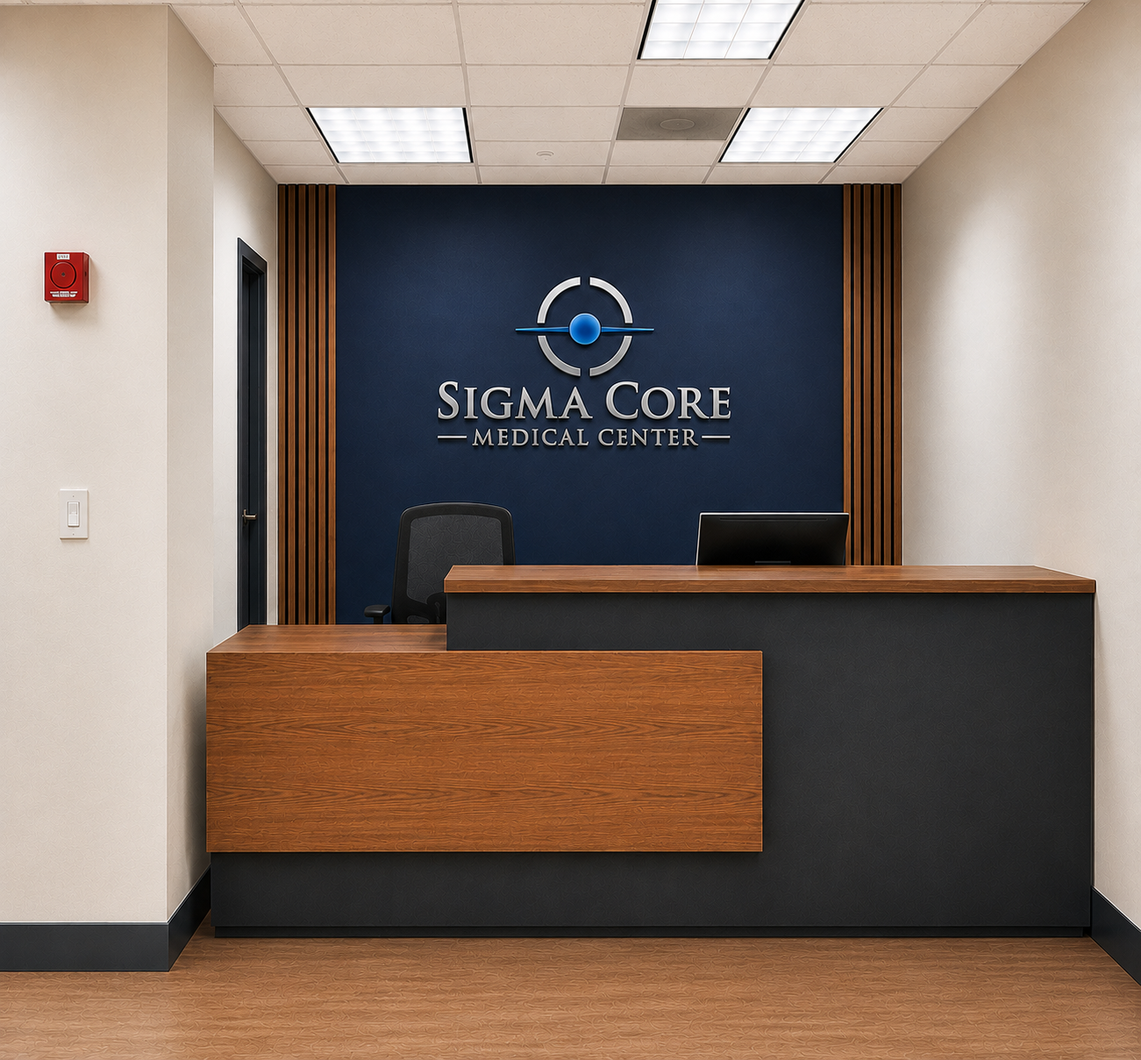
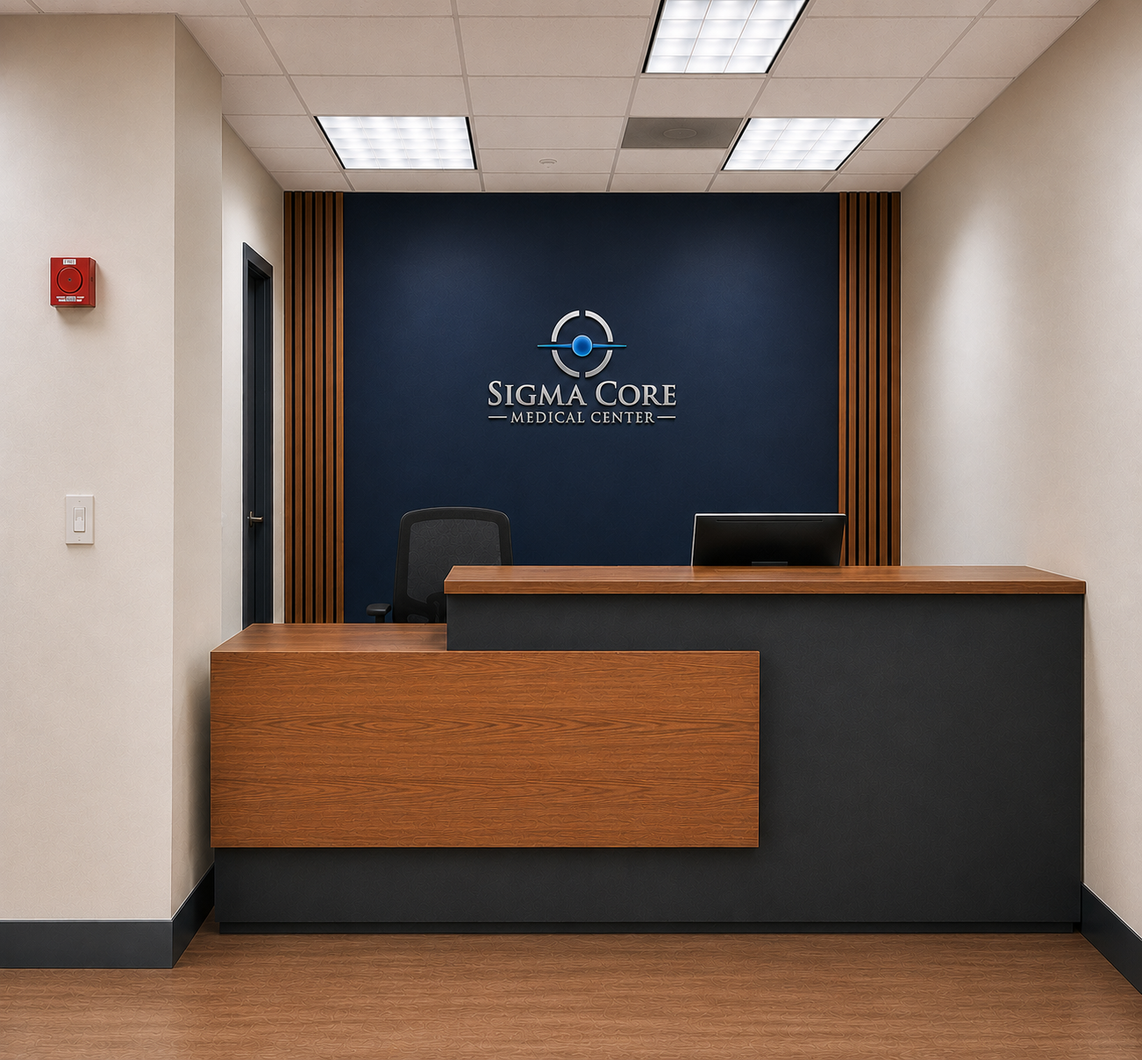
fix: repair about and contact photo ownership

diff --git a/app/(batch-three)/batch-three.css b/app/(batch-three)/batch-three.css
@@ -45,8 +45,8 @@
 .b3-guide-privacy { padding:80px 0; }.b3-guide-privacy .b3-photo { min-height:380px; }
 .b3-book-hero { padding:80px 0 50px; }.b3-book-hero .b3-split { align-items:stretch; }.b3-book-steps { padding:0; margin:32px 0; list-style:none; counter-reset:book; }.b3-book-steps li { counter-increment:book; padding:15px 20px; margin-top:8px; max-width:380px; background:#f7f6f3; color:#101e33; font-weight:600; }.b3-book-steps li:nth-child(2) { background:#20272e; color:#fff; margin-left:30px; }.b3-book-steps li::before { content:counter(book,decimal-leading-zero); color:#0877be; margin-right:14px; }.b3-book-hero-media { min-height:190px; max-width:500px; }.b3-calendar-aperture { min-height:560px; display:flex; flex-direction:column; gap:18px; align-items:center; justify-content:center; text-align:center; padding:38px; border:1px solid #c7cbd0; clip-path:polygon(12% 0,100% 0,100% 86%,88% 100%,0 100%,0 14%); }.b3-calendar-aperture strong { font-size:1.5rem; text-transform:uppercase; letter-spacing:.12em; }.b3-calendar-aperture span { font-size:1.05rem; }
 .b3-book-calendar { padding:90px 0; }.b3-book-calendar .b3-split { margin-top:32px; }.b3-calendar-copy { align-self:start; }.b3-calendar-right { position:relative; }.b3-calendar-reserved { position:relative; z-index:1; display:grid; justify-items:center; text-align:center; align-content:center; min-height:350px; padding:50px; background:#f7f6f3; color:#101e33; clip-path:polygon(5% 0,100% 0,100% 95%,95% 100%,0 100%,0 5%); }.b3-calendar-reserved strong { margin-top:14px; font-size:1.35rem; text-transform:uppercase; }.b3-calendar-reserved p { font-size:1rem; }.b3-calendar-photo { min-height:160px; margin-top:-35px; }.b3-book-privacy { padding:90px 0; }.b3-book-privacy .b3-reserved { min-height:330px; }
-.b3-contact-hero { padding-bottom:50px; }.b3-contact-hero .b3-photo { height:530px; }.b3-contact-details { padding:90px 0; }.b3-location-card { display:flex; gap:20px; background:#f7f6f3; color:#101e33; padding:30px; margin-top:38px; }.b3-location-card strong,.b3-location-card span { display:block; }.b3-location-card span { margin-top:5px; font-size:1rem; }.b3-contact-facility { padding:90px 0 0; }.b3-contact-facility>div>p { max-width:65ch; }.b3-facility-wide { min-height:470px; margin-top:30px; }.b3-facility-label { position:relative; display:flex; gap:25px; align-items:center; background:#101e33; color:#fff; padding:20px 30px; }.b3-facility-label span { flex:1; font-size:1rem; }.b3-facility-label a { display:flex; align-items:center; gap:8px; color:#b1dfff; }.b3-contact-booking { padding:110px 0; }.b3-contact-booking .b3-photo { min-height:420px; }
-@media(max-width:760px) { .b3-shell { width:min(100% - 36px, 600px); }.b3-split,.b3-gallery-top { grid-template-columns:1fr; gap:30px; }.b3 h1 { font-size:clamp(2.4rem,10vw,4rem); }.b3 h2 { font-size:clamp(2.2rem,9vw,3.6rem); }.b3-bracket { padding-left:18px; }.b3-about-hero,.b3-contact-hero,.b3-guide-hero,.b3-book-hero { padding-top:46px; }.b3-hero-media,.b3-contact-hero .b3-photo { height:280px; }.b3-purpose-top .b3-photo,.b3-about-team .b3-photo { min-height:265px; }.b3-mission .b3-shell { grid-template-columns:1fr; gap:12px; }.b3-principle-rail { grid-template-columns:1fr 1fr; padding-block:20px; }.b3-gallery-top .b3-photo { min-height:260px; }.b3-gallery-panorama { min-height:130px; }.b3-about-gallery,.b3-about-principles,.b3-about-team,.b3-about-booking,.b3-guide-summary,.b3-guide-availability,.b3-guide-privacy,.b3-book-calendar,.b3-book-privacy,.b3-contact-details,.b3-contact-facility,.b3-contact-booking { padding-block:64px; }.b3-book-hero-media { min-height:160px; }.b3-calendar-aperture { min-height:310px; }.b3-facility-wide { min-height:250px; }.b3-facility-label { flex-wrap:wrap; }.b3-facility-label span { flex:1 1 100%; }.b3-availability-foot { align-items:start; flex-direction:column; }.b3-status { padding:18px; }.b3-guide-rail .b3-shell { padding:14px 0; }.b3-guide-rail span { display:none; } }
+.b3-contact-hero { padding-bottom:50px; }.b3-contact-hero .b3-photo { height:530px; }.b3-contact-details { padding:90px 0; }.b3-location-card { display:flex; gap:20px; background:#f7f6f3; color:#101e33; padding:30px; margin-top:38px; }.b3-location-card strong,.b3-location-card span { display:block; }.b3-location-card span { margin-top:5px; font-size:1rem; }.b3-contact-booking { padding:110px 0; }.b3-contact-booking .b3-photo { min-height:420px; }
+@media(max-width:760px) { .b3-shell { width:min(100% - 36px, 600px); }.b3-split,.b3-gallery-top { grid-template-columns:1fr; gap:30px; }.b3 h1 { font-size:clamp(2.4rem,10vw,4rem); }.b3 h2 { font-size:clamp(2.2rem,9vw,3.6rem); }.b3-bracket { padding-left:18px; }.b3-about-hero,.b3-contact-hero,.b3-guide-hero,.b3-book-hero { padding-top:46px; }.b3-hero-media,.b3-contact-hero .b3-photo { height:280px; }.b3-purpose-top .b3-photo,.b3-about-team .b3-photo { min-height:265px; }.b3-mission .b3-shell { grid-template-columns:1fr; gap:12px; }.b3-principle-rail { grid-template-columns:1fr 1fr; padding-block:20px; }.b3-gallery-top .b3-photo { min-height:260px; }.b3-gallery-panorama { min-height:130px; }.b3-about-gallery,.b3-about-principles,.b3-about-team,.b3-about-booking,.b3-guide-summary,.b3-guide-availability,.b3-guide-privacy,.b3-book-calendar,.b3-book-privacy,.b3-contact-details,.b3-contact-booking { padding-block:64px; }.b3-book-hero-media { min-height:160px; }.b3-calendar-aperture { min-height:310px; }.b3-availability-foot { align-items:start; flex-direction:column; }.b3-status { padding:18px; }.b3-guide-rail .b3-shell { padding:14px 0; }.b3-guide-rail span { display:none; } }
 @media(prefers-reduced-motion:reduce) { .b3-action { transition:none; } }
 
 @media (min-width: 761px) {
@@ -56,15 +56,108 @@
   .b3-gallery-top { grid-template-columns: 35% 65%; }
   .b3-gallery-top .b3-photo { min-height: 540px; }
   .b3-gallery-panorama { min-height: 300px; }
-  .b3-contact-facility > .b3-shell { width: min(100% - 48px, 1480px); }
-  .b3-facility-wide { min-height: 565px; }
 }
 @media (max-width: 760px) {
   .b3-purpose-top .b3-photo { min-height: 340px; }
   .b3-gallery-top .b3-photo { min-height: 335px; }
   .b3-gallery-panorama { min-height: 190px; }
-  .b3-facility-wide { min-height: 300px; }
 }
 
 .b3-guide-hero .b3-guide-rail { padding-bottom: 24px; }
-.b3-contact-facility .b3-facility-label { margin-bottom: 36px; }
+
+/* Keep the alternate reception view tall enough to show its desk and complete mark. */
+.b3-contact-details .b3-stacked-media .b3-photo:first-child { min-height:440px; }
+.b3-contact-details .b3-stacked-media .b3-photo:last-child { min-height:220px; }
+
+/* Contact facility frame: the real room, live location strip and measured rail are separate layers. */
+.b3-contact-facility { padding-block:90px 96px; }
+.b3-contact-facility > .b3-shell { width:min(100% - 48px, 1440px); }
+.b3-contact-facility > .b3-shell > p { max-width:65ch; }
+.b3-facility-stage { position:relative; margin-top:32px; padding-inline:96px 42px; }
+.b3-facility-wide {
+  height:clamp(500px, 46vw, 660px);
+  min-height:0;
+  clip-path:polygon(2% 0, 100% 0, 100% 100%, 0 100%, 0 26%);
+}
+.b3-facility-wide img { object-position:center; }
+.b3-facility-rail {
+  position:absolute;
+  z-index:1;
+  inset:30% auto 0 0;
+  width:132px;
+  background:#0877be;
+  clip-path:polygon(62% 0, 78% 0, 25% 100%, 0 100%);
+  pointer-events:none;
+}
+.b3-facility-bracket {
+  position:absolute;
+  inset:-172px 0 32px auto;
+  width:90px;
+  border-right:12px solid #aab7c1;
+  pointer-events:none;
+}
+.b3-facility-bracket::before,.b3-facility-bracket::after {
+  content:"";
+  position:absolute;
+  right:-12px;
+  width:90px;
+  border-top:12px solid #aab7c1;
+}
+.b3-facility-bracket::before { top:0; }
+.b3-facility-bracket::after { bottom:0; }
+.b3-facility-label {
+  position:relative;
+  z-index:2;
+  display:flex;
+  align-items:center;
+  justify-content:space-between;
+  gap:24px;
+  min-height:108px;
+  padding:18px 24px 18px 112px;
+  background:#101e33;
+  color:#f7f6f3;
+}
+.b3-facility-label::before {
+  content:"";
+  position:absolute;
+  left:36px;
+  top:22px;
+  bottom:22px;
+  width:44px;
+  border:7px solid #f7f6f3;
+  border-right:0;
+}
+.b3-facility-label strong,.b3-facility-label span { display:block; }
+.b3-facility-label strong { font-size:1.45rem; line-height:1.2; }
+.b3-facility-label span { margin-top:5px; font-size:1rem; }
+.b3-facility-label a {
+  display:inline-flex;
+  align-items:center;
+  justify-content:space-between;
+  gap:24px;
+  min-height:64px;
+  padding:12px 24px;
+  background:#0877be;
+  color:#f7f6f3;
+  clip-path:polygon(16% 0, 100% 0, 100% 100%, 0 100%);
+  transition:background-color .2s ease;
+}
+.b3-facility-label a:hover { background:#055b96; text-decoration:none !important; }
+.b3-facility-label a:focus-visible { clip-path:none; }
+@media(max-width:760px) {
+  .b3-contact-details .b3-stacked-media .b3-photo:first-child { min-height:300px; }
+  .b3-contact-details .b3-stacked-media .b3-photo:last-child { min-height:170px; }
+  .b3-contact-facility { padding-block:64px; }
+  .b3-contact-facility > .b3-shell { width:min(100% - 36px, 600px); }
+  .b3-facility-stage { margin-top:28px; padding-inline:16px 0; }
+  .b3-facility-wide { height:clamp(290px, 84vw, 390px); }
+  .b3-facility-rail { width:34px; }
+  .b3-facility-bracket { display:none; }
+  .b3-facility-label { display:grid; gap:14px; padding:22px 24px; }
+  .b3-facility-label::before { display:none; }
+  .b3-facility-label strong { font-size:1.15rem; }
+  .b3-facility-label a { justify-self:start; min-height:48px; padding:10px 18px; }
+}
+@media(prefers-reduced-motion:reduce) {
+  .b3-facility-label a { transition:none; }
+}

diff --git a/public/design-review/contact/index.html b/public/design-review/contact/index.html
@@ -155,13 +155,14 @@ figcaption{font-size:12px;color:#999;margin-top:4px}
 </div></div>
 <div class='card' id='02-verified-location-details-r7'>
 <b>02-verified-location-details-r7</b><span class='chip extract'>extract</span>
-<div class='muted'>real reception — independent photographic slot</div>
+<div class='muted'>second supplied reception view — same desk, separate slot</div>
 <div class='muted'>Use the owned image inside a sized media slot; CSS clip-path may restore the reference diagonal. Keep overlaid text and calls to action outside the raster.</div>
-<div class='muted'>presentation: {&quot;alpha_required&quot;: false, &quot;crop_contract&quot;: &quot;Keep the photographed subject and identifying room features legible; maintain source-specific composition at desktop and mobile.&quot;, &quot;intended_background&quot;: &quot;#101E33&quot;, &quot;minimum_visible_fraction&quot;: &quot;At least 75% of the source-visible photographic subject in the approved live slot; do not invent any occluded anatomy or room detail.&quot;, &quot;mode&quot;: &quot;framed-panel&quot;, &quot;source_box&quot;: [1198, 104, 1505, 588], &quot;source_provenance&quot;: &quot;/var/lib/megaclaw/workspace/website-lp-build-research-data/b380819e-88b6-48bd-8f1e-bfe6a580d72a/sources/drive/reception-1.png&quot;}</div>
+<div class='muted'>presentation: {&quot;alpha_required&quot;: false, &quot;crop_contract&quot;: &quot;Keep the photographed subject and identifying room features legible; maintain source-specific composition at desktop and mobile.&quot;, &quot;intended_background&quot;: &quot;#101E33&quot;, &quot;minimum_visible_fraction&quot;: &quot;At least 75% of the source-visible photographic subject in the approved live slot; do not invent any occluded anatomy or room detail.&quot;, &quot;mode&quot;: &quot;framed-panel&quot;, &quot;source_box&quot;: [1198, 104, 1505, 588], &quot;source_provenance&quot;: &quot;/var/lib/megaclaw/workspace/website-lp-build-research-data/b380819e-88b6-48bd-8f1e-bfe6a580d72a/sources/drive/reception-2.png&quot;}</div>
+<div class='muted'>Client source: reception-2.png. Same physical desk as the hero, photographed in a second supplied view; cross-route reuse awaits Art Director live review.</div>
 <div class='pair'>
 <figure><a href='crops/02-verified-location-details-context.png'><img src='crops/02-verified-location-details-r7-ref.png' alt=''></a><figcaption>design reference — 02-verified-location-details (click for full frame)</figcaption></figure>
-<figure><div class='asset-preview'><img src='../images/design/02-verified-location-details-01-real-reception.png' alt=''></div><figcaption>shipped asset on transparency checkerboard — <code>02-verified-location-details-01-real-reception.png</code> (replace in git)</figcaption></figure>
-<figure><div class='intended-preview' style='background:#101E33'><img src='../images/design/02-verified-location-details-01-real-reception.png' alt=''></div><figcaption>asset on intended background — #101E33</figcaption></figure>
+<figure><div class='asset-preview'><img src='../../images/design/contact/02-verified-location-details-01-real-reception.png' alt=''></div><figcaption>shipped asset on transparency checkerboard — <code>02-verified-location-details-01-real-reception.png</code> (replace in git)</figcaption></figure>
+<figure><div class='intended-preview' style='background:#101E33'><img src='../../images/design/contact/02-verified-location-details-01-real-reception.png' alt=''></div><figcaption>asset on intended background — #101E33</figcaption></figure>
 </div></div>
 <div class='card' id='02-verified-location-details-r8'>
 <b>02-verified-location-details-r8</b><span class='chip extract'>extract</span>
@@ -304,7 +305,7 @@ Segmenter found 6 candidate regions; these are not semantic assets.
 - CODE r4: Keep this verified location details panel in its own CSS grid track with a solid brand field, clipped polygon edge where visible, live heading/body text and one-pixel bracket pseudo-elements; do not bake source-frame words, actions, or privacy claims into an image. Approved typography_contract roles: h1 (display), body and utility; palette_contract tokens: ink, surface, action, electric, silver, charcoal and light.
 - CODE r5: Keep the verified location details horizontal rail live: use CSS grid or flex children, one-pixel keylines, polygon-corner pseudo-elements and role-specific inline SVG marks; set the actual copy and navigation targets from the approved section manifest. Approved typography_contract roles: h1 (display), body and utility; palette_contract tokens: ink, surface, action, electric, silver, charcoal and light.
 - CODE r6: Keep the verified location details horizontal rail live: use CSS grid or flex children, one-pixel keylines, polygon-corner pseudo-elements and role-specific inline SVG marks; set the actual copy and navigation targets from the approved section manifest. Approved typography_contract roles: h1 (display), body and utility; palette_contract tokens: ink, surface, action, electric, silver, charcoal and light.
-- EXTRACT r7: real-reception; 02-verified-location-details-01-real-reception.png; copy verified client image reception-1.png. CSS sizes the slot, not the file; keep its remaining annotations live.
+- EXTRACT r7: real-reception; 02-verified-location-details-01-real-reception.png; copy verified client image reception-2.png (second view of the same desk). CSS sizes the slot, not the file; keep its remaining annotations live.
 - EXTRACT r8: clinic-lounge; 02-verified-location-details-02-clinic-lounge.png; crop approved frame, preserve photographed details; no generic substitute. CSS sizes the slot, not the file; keep its remaining annotations live.
 
 ## 03-facility-image

diff --git a/public/design-review/about/index.html b/public/design-review/about/index.html
@@ -189,13 +189,14 @@ figcaption{font-size:12px;color:#999;margin-top:4px}
 </div></div>
 <div class='card' id='03-facility-gallery-r5'>
 <b>03-facility-gallery-r5</b><span class='chip extract'>extract</span>
-<div class='muted'>real reception — independent photographic slot</div>
+<div class='muted'>second supplied reception view — same desk, separate slot</div>
 <div class='muted'>Use the owned image inside a sized media slot; CSS clip-path may restore the reference diagonal. Keep overlaid text and calls to action outside the raster.</div>
-<div class='muted'>presentation: {&quot;alpha_required&quot;: false, &quot;crop_contract&quot;: &quot;Keep the photographed subject and identifying room features legible; maintain source-specific composition at desktop and mobile.&quot;, &quot;intended_background&quot;: &quot;#101E33&quot;, &quot;minimum_visible_fraction&quot;: &quot;At least 75% of the source-visible photographic subject in the approved live slot; do not invent any occluded anatomy or room detail.&quot;, &quot;mode&quot;: &quot;framed-panel&quot;, &quot;source_box&quot;: [814, 69, 1382, 562], &quot;source_provenance&quot;: &quot;/var/lib/megaclaw/workspace/website-lp-build-research-data/b380819e-88b6-48bd-8f1e-bfe6a580d72a/sources/drive/reception-1.png&quot;}</div>
+<div class='muted'>presentation: {&quot;alpha_required&quot;: false, &quot;crop_contract&quot;: &quot;Keep the photographed subject and identifying room features legible; maintain source-specific composition at desktop and mobile.&quot;, &quot;intended_background&quot;: &quot;#101E33&quot;, &quot;minimum_visible_fraction&quot;: &quot;At least 75% of the source-visible photographic subject in the approved live slot; do not invent any occluded anatomy or room detail.&quot;, &quot;mode&quot;: &quot;framed-panel&quot;, &quot;source_box&quot;: [814, 69, 1382, 562], &quot;source_provenance&quot;: &quot;/var/lib/megaclaw/workspace/website-lp-build-research-data/b380819e-88b6-48bd-8f1e-bfe6a580d72a/sources/drive/reception-2.png&quot;}</div>
+<div class='muted'>Client source: reception-2.png. Same physical desk as the hero, photographed in a second supplied view; cross-route reuse awaits Art Director live review.</div>
 <div class='pair'>
 <figure><a href='crops/03-facility-gallery-context.png'><img src='crops/03-facility-gallery-r5-ref.png' alt=''></a><figcaption>design reference — 03-facility-gallery (click for full frame)</figcaption></figure>
-<figure><div class='asset-preview'><img src='../images/design/03-facility-gallery-01-real-reception.png' alt=''></div><figcaption>shipped asset on transparency checkerboard — <code>03-facility-gallery-01-real-reception.png</code> (replace in git)</figcaption></figure>
-<figure><div class='intended-preview' style='background:#101E33'><img src='../images/design/03-facility-gallery-01-real-reception.png' alt=''></div><figcaption>asset on intended background — #101E33</figcaption></figure>
+<figure><div class='asset-preview'><img src='../../images/design/about/03-facility-gallery-01-real-reception.png' alt=''></div><figcaption>shipped asset on transparency checkerboard — <code>03-facility-gallery-01-real-reception.png</code> (replace in git)</figcaption></figure>
+<figure><div class='intended-preview' style='background:#101E33'><img src='../../images/design/about/03-facility-gallery-01-real-reception.png' alt=''></div><figcaption>asset on intended background — #101E33</figcaption></figure>
 </div></div>
 <div class='card' id='03-facility-gallery-r6'>
 <b>03-facility-gallery-r6</b><span class='chip extract'>extract</span>
@@ -470,7 +471,7 @@ Segmenter found 4 candidate regions; these are not semantic assets.
 - CODE r2: Recreate this facility gallery content group with live HTML typography and responsive CSS grid or flex rows; match the sampled navy/blue/mineral field, use squared panels and one-pixel bracket strokes, and use only short geometric inline SVG bar/icon accents. Preserve manifest copy and functional links. Approved typography_contract roles: h1 (display), body and utility; palette_contract tokens: ink, surface, action, electric, silver, charcoal and light.
 - CODE r3: Recreate this facility gallery content group with live HTML typography and responsive CSS grid or flex rows; match the sampled navy/blue/mineral field, use squared panels and one-pixel bracket strokes, and use only short geometric inline SVG bar/icon accents. Preserve manifest copy and functional links. Approved typography_contract roles: h1 (display), body and utility; palette_contract tokens: ink, surface, action, electric, silver, charcoal and light.
 - CODE r4: Keep the facility gallery horizontal rail live: use CSS grid or flex children, one-pixel keylines, polygon-corner pseudo-elements and role-specific inline SVG marks; set the actual copy and navigation targets from the approved section manifest. Approved typography_contract roles: h1 (display), body and utility; palette_contract tokens: ink, surface, action, electric, silver, charcoal and light.
-- EXTRACT r5: real-reception; 03-facility-gallery-01-real-reception.png; copy verified client image reception-1.png. CSS sizes the slot, not the file; keep its remaining annotations live.
+- EXTRACT r5: real-reception; 03-facility-gallery-01-real-reception.png; copy verified client image reception-2.png (second view of the same desk). CSS sizes the slot, not the file; keep its remaining annotations live.
 - EXTRACT r6: waiting-area; 03-facility-gallery-02-waiting-area.png; crop approved frame, preserve photographed details; no generic substitute. CSS sizes the slot, not the file; keep its remaining annotations live.
 
 ## 04-care-principles

diff --git a/src/components/batch-three/contact/details.tsx b/src/components/batch-three/contact/details.tsx
@@ -2,5 +2,5 @@ import Link from "next/link";
 import { ArrowRight, MapPin } from "lucide-react";
 import { DesignPhoto } from "../design-photo";
 export function ContactDetails(): React.ReactElement {
-  return <section id="verified-location-details" className="b3-section b3-blue b3-contact-details"><div className="b3-shell b3-split"><div><h2>Location details are being verified.</h2><p>We are confirming the address, phone, email, hours, directions, parking, and accessibility details before publishing them.</p><div className="b3-location-card" id="location-status"><MapPin size={36} aria-hidden /><div><strong>Richmond, Virginia area</strong><span>Exact location and contact information pending confirmation.</span></div></div><Link href="/services/neuropathy" className="b3-text-link">Explore neuropathy care <ArrowRight size={18} /></Link></div><div className="b3-stacked-media"><DesignPhoto slug="contact" file="02-verified-location-details-01-real-reception.png" className="b3-bevel" /><DesignPhoto slug="contact" file="02-verified-location-details-02-clinic-lounge.png" className="b3-bevel" /></div></div></section>;
+  return <section id="verified-location-details" className="b3-section b3-blue b3-contact-details"><div className="b3-shell b3-split"><div><h2>Location details are being verified.</h2><p>We are confirming the address, phone, email, hours, directions, parking, and accessibility details before publishing them.</p><div className="b3-location-card" id="location-status"><MapPin size={36} aria-hidden /><div><strong>Richmond, Virginia area</strong><span>Exact location and contact information pending confirmation.</span></div></div><Link href="/services/neuropathy" className="b3-text-link">Explore neuropathy care <ArrowRight size={18} /></Link></div><div className="b3-stacked-media"><DesignPhoto slug="contact" file="02-verified-location-details-01-real-reception.png" alt="Sigma Core reception desk with the clinic sign behind it" className="b3-bevel" /><DesignPhoto slug="contact" file="02-verified-location-details-02-clinic-lounge.png" className="b3-bevel" /></div></div></section>;
 }

diff --git a/src/components/batch-three/contact/facility.tsx b/src/components/batch-three/contact/facility.tsx
@@ -1,6 +1,26 @@
 import Link from "next/link";
 import { ArrowRight } from "lucide-react";
 import { DesignPhoto } from "../design-photo";
+
 export function ContactFacility(): React.ReactElement {
-  return <section id="facility-image" className="b3-section b3-paper b3-contact-facility"><div className="b3-shell"><h2>Facility Image</h2><p>A Sigma Core-branded interior shown in the approved design reference. This image does not establish the final address, entrance, or accessibility arrangements.</p><DesignPhoto slug="contact" file="03-facility-image-01-real-waiting-room.png" className="b3-bevel b3-facility-wide" /><div className="b3-facility-label" id="facility-context"><strong>Richmond, Virginia area</strong><span>Location details pending confirmation.</span><Link href="/about">About Sigma Core <ArrowRight size={17} /></Link></div></div></section>;
+  return (
+    <section id="facility-image" className="b3-section b3-paper b3-contact-facility">
+      <div className="b3-shell">
+        <h2>Facility Image</h2>
+        <p>A Sigma Core-branded interior shown in the approved design reference. This image does not establish the final address, entrance, or accessibility arrangements.</p>
+        <div className="b3-facility-stage">
+          <DesignPhoto slug="contact" file="03-facility-image-01-real-waiting-room.png" alt="Sigma Core waiting room with five chairs and the clinic sign" className="b3-facility-wide" />
+          <span className="b3-facility-rail" aria-hidden="true" />
+          <span className="b3-facility-bracket" aria-hidden="true" />
+          <div className="b3-facility-label" id="facility-context">
+            <div>
+              <strong>Richmond, Virginia area</strong>
+              <span>Location details pending confirmation.</span>
+            </div>
+            <Link href="/about">About Sigma Core <ArrowRight size={17} /></Link>
+          </div>
+        </div>
+      </div>
+    </section>
+  );
 }

diff --git a/src/components/batch-three/design-photo.tsx b/src/components/batch-three/design-photo.tsx
@@ -1,6 +1,8 @@
 import Image from "next/image";
 
-type Props = { slug: "about" | "book" | "contact" | "educational-guide"; file: string; className?: string; priority?: boolean };
-export function DesignPhoto({ slug, file, className = "", priority = false }: Props): React.ReactElement {
-  return <div className={`b3-photo ${className}`}><Image src={`/images/design/${slug}/${file}`} alt="Sigma Core-branded interior concept; location details have not been verified" fill priority={priority} sizes="(min-width: 900px) 52vw, 100vw" className="object-cover" /></div>;
+type Props = { slug: "about" | "book" | "contact" | "educational-guide"; file: string; alt?: string; className?: string; priority?: boolean };
+const DEFAULT_ALT = "Sigma Core-branded interior concept; location details have not been verified";
+
+export function DesignPhoto({ slug, file, alt = DEFAULT_ALT, className = "", priority = false }: Props): React.ReactElement {
+  return <div className={`b3-photo ${className}`}><Image src={`/images/design/${slug}/${file}`} alt={alt} fill priority={priority} sizes="(min-width: 900px) 52vw, 100vw" className="object-cover" /></div>;
 }

diff --git a/src/components/batch-three/about/gallery.tsx b/src/components/batch-three/about/gallery.tsx
@@ -4,6 +4,6 @@ import { DesignPhoto } from "../design-photo";
 export function AboutGallery(): React.ReactElement {
   return <section id="facility-gallery" className="b3-section b3-paper b3-about-gallery"><div className="b3-shell"><div className="b3-split b3-gallery-top">
     <div className="b3-gallery-copy"><h2>Facility Gallery</h2><p className="b3-bracket">These design references show Sigma Core-branded reception and waiting-area scenes. Physical location details are being verified.</p><Link href="/contact" className="b3-action">Location updates <ArrowRight size={20} /></Link></div>
-    <DesignPhoto slug="about" file="03-facility-gallery-01-real-reception.png" className="b3-bevel" /></div><DesignPhoto slug="about" file="03-facility-gallery-02-waiting-area.png" className="b3-gallery-panorama" />
+    <DesignPhoto slug="about" file="03-facility-gallery-01-real-reception.png" alt="Sigma Core reception desk with the clinic sign behind it" className="b3-bevel" /></div><DesignPhoto slug="about" file="03-facility-gallery-02-waiting-area.png" className="b3-gallery-panorama" />
   </div></section>;
 }
